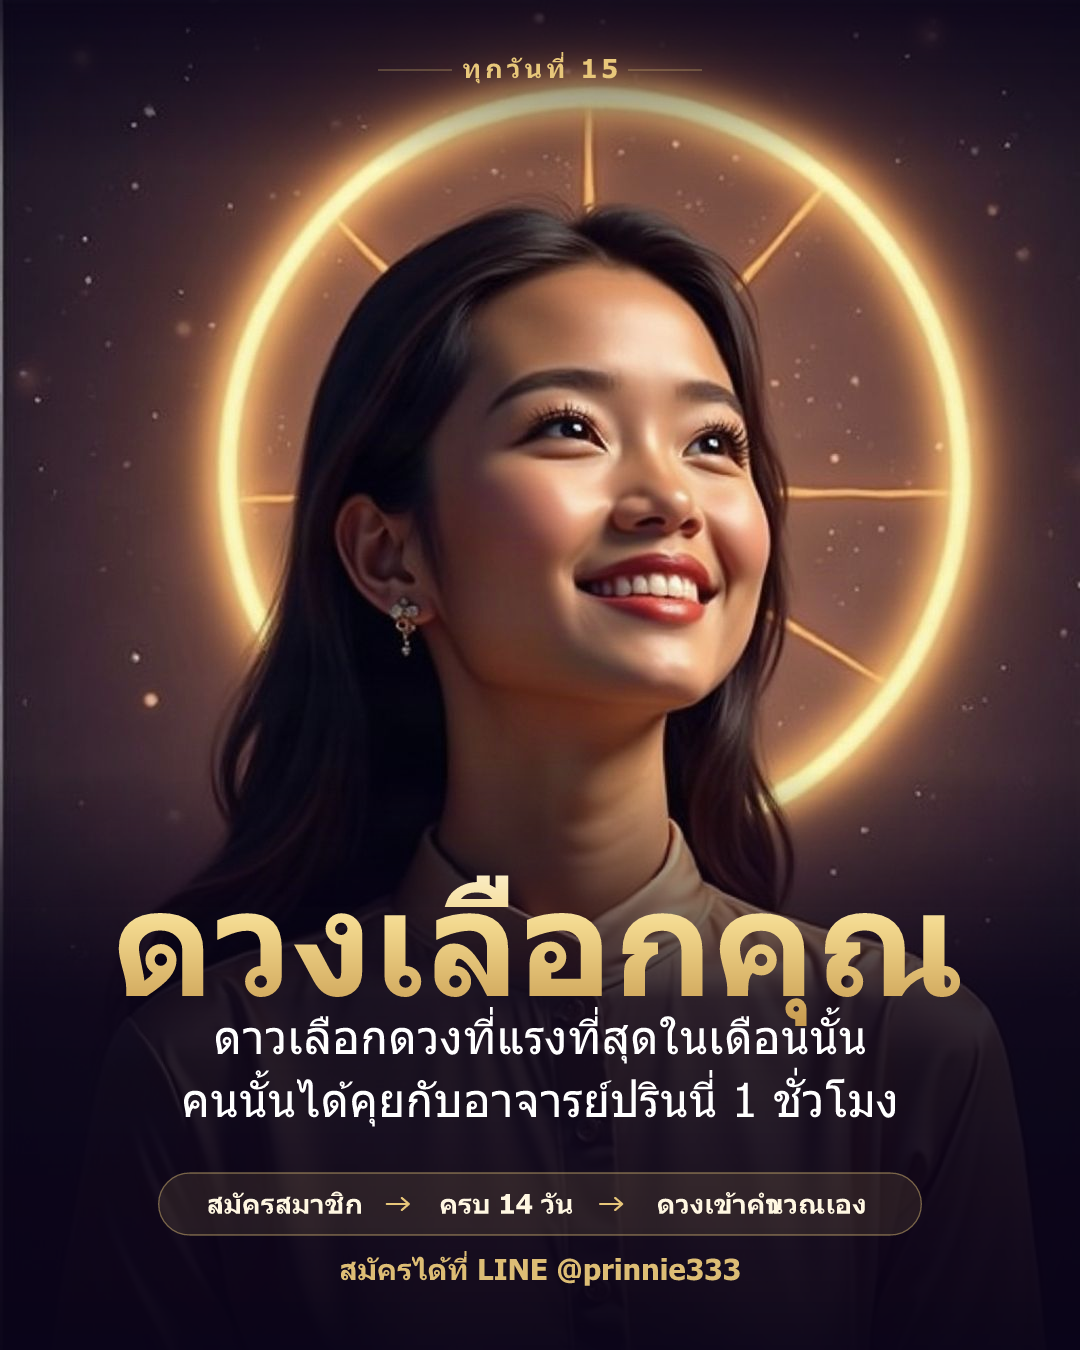
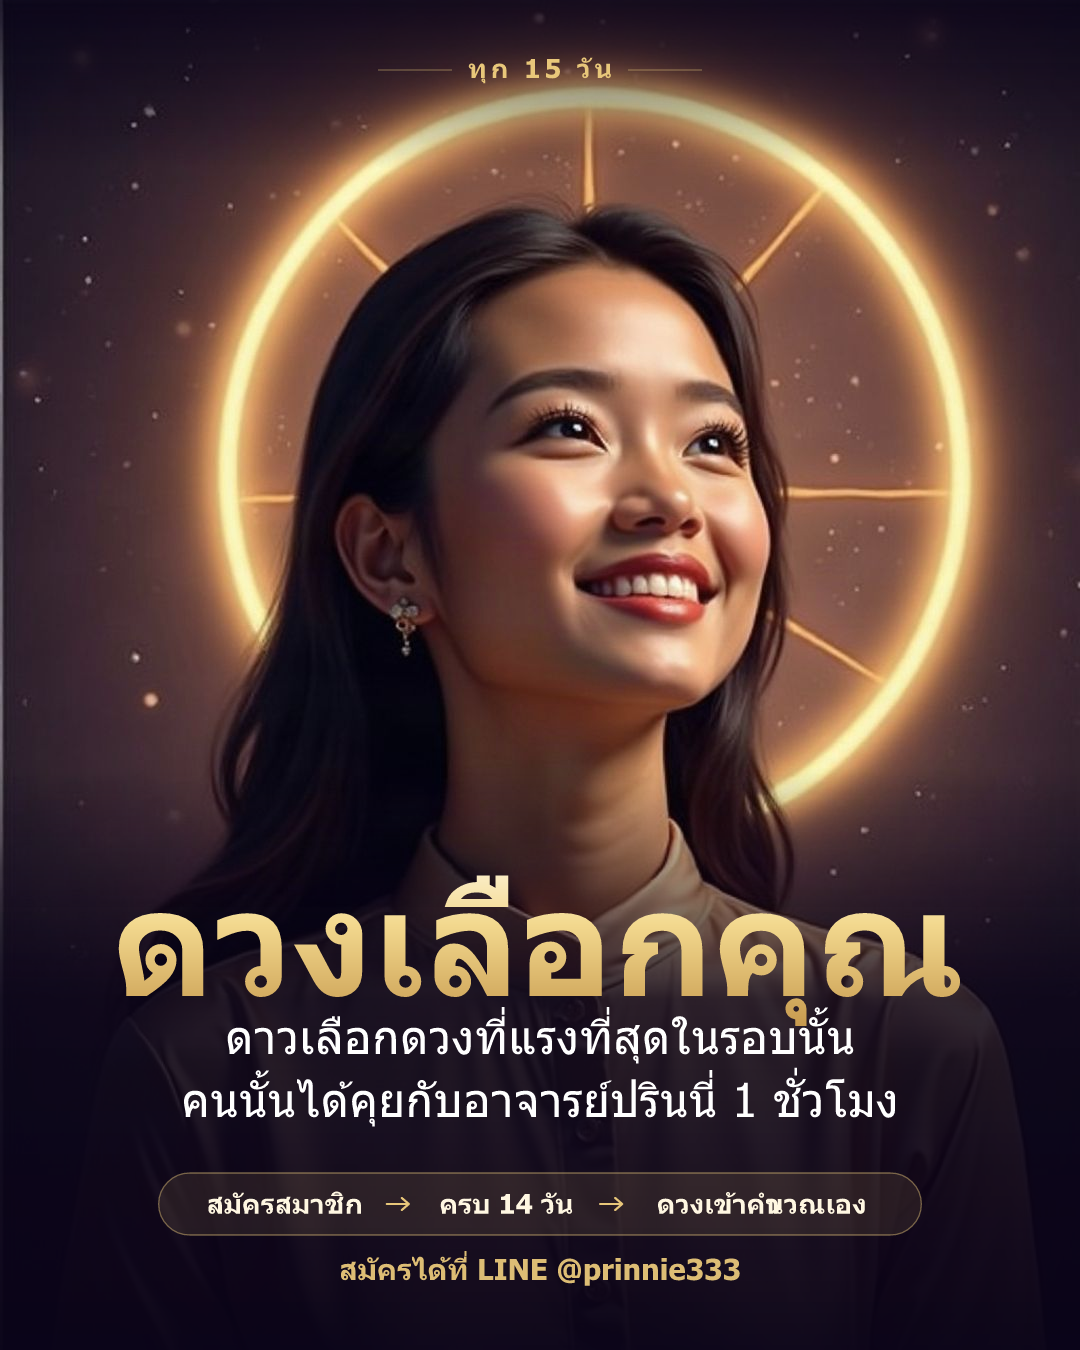
แคมเปญดวงเลือกคุณ: เปลี่ยนเป็นรอบ 15 วัน (วันที่ 2 และ 17) + ข้อความสั้นลงครึ่งหนึ่ง
เดิมคัดเดือนละครั้งวันที่ 15 · เปลี่ยนเป็นทุก 15 วัน = เดือนละ 2 คน
เรื่องนี้แตะ 7 ไฟล์ ถ้าแก้แต่ข้อความบรอดแคสต์จะกลายเป็นสัญญาที่ระบบไม่ทำตาม

- scheduler/loyaltyRewards.js  cron '0 9 15 * *' → '0 9 2,17 * *'  ← ตัวคัดจริง
- services/winback.js          ข้อความตามลูกค้ากลับ
- services/paymentApprove.js   คอมเมนต์กติกา
- build-loyalty-art.js         "ทุกวันที่ 15" → "ทุก 15 วัน" · "ในเดือนนั้น" → "ในรอบนั้น"
- build-loyalty-short.js       การ์ดในวิดีโอ → "ทุกวันที่ 2 และ 17"
- build-campaign-art.js        ข้อความในโปสเตอร์
- broadcast-loyalty.js         ข้อความใหม่ + แก้บั๊กด้านล่าง

ข้อความ: 553 → 302 ตัวอักษร (OA1) · 609 → 334 (OA2)
เน้นสามอย่างตั้งแต่บรรทัดแรก — ฟรี · เฉพาะสมาชิก · รอบละ 1 คน

บั๊กที่เจอตอนเทส: --to-me ขึ้นว่า "ส่งแล้ว" ทั้งที่ TEST_MODE บล็อกไว้
pushMessage คืน {skipped:true} ตอนถูกบล็อก ไม่ได้ throw แต่สคริปต์ไม่เคยเช็คค่าที่คืนมา
ถ้าไม่เจอก่อน วันบรอดแคสต์จริงจะเห็นเครื่องหมายถูกแล้วนึกว่าสำเร็จ
แก้แล้ว: เช็ค r.skipped + เลือกปลายทางที่อยู่ใน allowlist ให้อัตโนมัติ

รูปแคมเปญสร้างใหม่ทั้งชุดให้ตรงกับรอบใหม่

Changed region(s): [[0.1833, 0.7467, 0.7944, 0.7778], [0.4278, 0.0311, 0.5806, 0.0622]]

diff --git a/scripts/build-loyalty-short.js b/scripts/build-loyalty-short.js
@@ -5,7 +5,7 @@
 //
 // โครง 5 การ์ด — เขียนให้คนดูรู้เรื่องภายใน 3 วินาทีแรก เพราะ Short ตัดสินกันตรงนั้น
 //   1. ตะขอ      "ดวงของทุกคนไม่เหมือนกัน"       ← ต้องอ่านจบก่อนคนปัด
-//   2. กติกา     ทุกวันที่ 15 ดาวเลือกดวงที่แรงสุด
+//   2. กติกา     ทุก 15 วัน ดาวเลือกดวงที่แรงสุด
 //   3. รางวัล    ได้คุยกับอาจารย์ตัวต่อตัว 1 ชม.   ← ภาพคนจริง จุดที่หยุดสายตา
 //   4. ทางเข้า   สมัคร → ครบ 14 วัน → เข้าคำนวณเอง
 //   5. ปิด       แอด LINE @prinnie333
@@ -31,7 +31,7 @@ const esc = s => String(s).replace(/&/g, '&amp;').replace(/</g, '&lt;').replace(
 // hero:true = มีภาพคนเป็นพื้น (การ์ดรางวัล) ที่เหลือพื้นม่วงล้วนให้ตัวอักษรเด่น
 const CARDS = [
   { kicker: '', head: 'ดวงของทุกคน\nไม่เหมือนกัน', sub: 'เดือนนี้ดาวจึงเลือกไม่เหมือนกัน', dur: 3.4 },
-  { kicker: 'ทุกวันที่ 15', head: 'ดาวเลือก\nดวงที่แรงที่สุด', sub: 'คำนวณจากวัน เวลา และสถานที่เกิดจริง', dur: 3.6 },
+  { kicker: 'ทุกวันที่ 2 และ 17', head: 'ดาวเลือก\nดวงที่แรงที่สุด', sub: 'คำนวณจากวัน เวลา และสถานที่เกิดจริง', dur: 3.6 },
   { kicker: 'สิทธิ์ที่ได้', head: 'คุยกับอาจารย์\nปรินนี่ 1 ชั่วโมง', sub: 'ตัวต่อตัว ไม่มีค่าใช้จ่ายเพิ่ม', dur: 4.0, hero: true },
   { kicker: 'ไม่ใช่การจับรางวัล', head: 'เป็นสมาชิก\nครบ 14 วัน', sub: 'ดวงคุณเข้าการคำนวณเอง ไม่ต้องสมัครอะไรอีก', dur: 3.6 },
   { kicker: 'เดือนนี้อาจเป็นคุณ', head: 'ดวงเลือกคุณ', sub: 'แอด LINE @prinnie333', dur: 3.4, gold: true },

diff --git a/src/scheduler/loyaltyRewards.js b/src/scheduler/loyaltyRewards.js
@@ -1,4 +1,4 @@
-// "ดวงเลือกคุณ" — รันทุกวันที่ 15 เวลา 09:00 Bangkok
+// "ดวงเลือกคุณ" — รันทุก 15 วัน (วันที่ 2 และ 17) เวลา 09:00 Bangkok
 // หาสมาชิกที่ดาวจรเดือนนี้ทำมุมกับดวงกำเนิดแรงที่สุด → ให้สิทธิ์ดูดวงกับอาจารย์ 1 ชม.
 //
 // ⚖ ไม่มีการสุ่ม — คำนวณจากตำแหน่งดาวจริง รันซ้ำวันเดิมได้ผลเดิมเสมอ (ดู monthlyPick.js)
@@ -52,11 +52,12 @@ async function runMonthlyPick({ at = new Date(), dryRun = false } = {}) {
 }
 
 function start() {
-  // วันที่ 15 ของทุกเดือน 09:00 Bangkok
-  cron.schedule('0 9 15 * *', () => runMonthlyPick(), { timezone: 'Asia/Bangkok' });
+  // วันที่ 2 และ 17 ของทุกเดือน 09:00 Bangkok — รอบละ 15 วัน
+  // ต้องตรงกับที่บอกไว้ในข้อความบรอดแคสต์ ไม่งั้นสัญญากับลูกค้าไม่เป็นจริง
+  cron.schedule('0 9 2,17 * *', () => runMonthlyPick(), { timezone: 'Asia/Bangkok' });
   const state = process.env.LOYALTY_ENABLED === 'true'
     ? '(ENABLED)' : '(ปิดอยู่ — ตั้ง LOYALTY_ENABLED=true)';
-  console.log(`[ดวงเลือกคุณ] คัดผู้ได้รับทุกวันที่ 15 · 09:00 Bangkok · สมาชิกครบ ${pick.MIN_MEMBER_DAYS} วัน ${state}`);
+  console.log(`[ดวงเลือกคุณ] คัดผู้ได้รับทุก 15 วัน (วันที่ 2 และ 17) · 09:00 Bangkok · สมาชิกครบ ${pick.MIN_MEMBER_DAYS} วัน ${state}`);
 }
 
 module.exports = { start, runMonthlyPick };

diff --git a/scripts/build-loyalty-art.js b/scripts/build-loyalty-art.js
@@ -91,12 +91,12 @@ function overlay(W, H, showPrice) {
   <g>
     <line x1="${cx - 162 * S}" y1="${70 * S}" x2="${cx - 88 * S}" y2="${70 * S}" stroke="#E8C77A" stroke-opacity=".5" stroke-width="1.2"/>
     <line x1="${cx + 88 * S}" y1="${70 * S}" x2="${cx + 162 * S}" y2="${70 * S}" stroke="#E8C77A" stroke-opacity=".5" stroke-width="1.2"/>
-    <text x="${cx}" y="${78 * S}" text-anchor="middle" font-size="${stamp}" font-weight="700" fill="#E8C77A" letter-spacing="4">ทุกวันที่ 15</text>
+    <text x="${cx}" y="${78 * S}" text-anchor="middle" font-size="${stamp}" font-weight="700" fill="#E8C77A" letter-spacing="4">ทุก 15 วัน</text>
   </g>
 
   <text x="${cx}" y="${headY}" text-anchor="middle" font-size="${head}" font-weight="700" fill="url(#gold)">ดวงเลือกคุณ</text>
 
-  <text x="${cx}" y="${proY}" text-anchor="middle" font-size="${promise}" font-weight="500" fill="#FFFFFF">ดาวเลือกดวงที่แรงที่สุดในเดือนนั้น</text>
+  <text x="${cx}" y="${proY}" text-anchor="middle" font-size="${promise}" font-weight="500" fill="#FFFFFF">ดาวเลือกดวงที่แรงที่สุดในรอบนั้น</text>
   <text x="${cx}" y="${proY2}" text-anchor="middle" font-size="${promise}" font-weight="500" fill="#FFFFFF">คนนั้นได้คุยกับอาจารย์ปรินนี่ 1 ชั่วโมง</text>
 
   <!-- ทางเข้าร่วม — เป็นลำดับจริง ต้องทำตามกัน ลูกศรจึงบอกความหมาย -->

diff --git a/src/services/paymentApprove.js b/src/services/paymentApprove.js
@@ -21,7 +21,7 @@ async function approve(order, chargeRef) {
   // ค่าคอมอินฟลู: เฉพาะ subscription + จ่ายจริงครั้งแรก (renew ไม่ได้เพิ่ม) — ไม่ให้พังการเปิดสมาชิก
   await commission.recordFirstPaid(order.line_user_id, order.ref).catch(e => console.error('[approve] commission:', e.message));
   // หมายเหตุ: สิทธิ์ดูดวงกับอาจารย์ไม่ผูกกับการจ่ายเงินอีกแล้ว
-  // เปลี่ยนเป็น "ดวงเลือกคุณ" — คัดจากดาวจรทุกวันที่ 15 (ดู scheduler/loyaltyRewards.js)
+  // เปลี่ยนเป็น "ดวงเลือกคุณ" — คัดจากดาวจรทุกวันที่ 2 และ 17 (ดู scheduler/loyaltyRewards.js)
   const expTH = new Date(r.expire_date).toLocaleDateString('th-TH', { year: 'numeric', month: 'long', day: 'numeric' });
   await lineMessaging.pushText(order.line_user_id,
     `ชำระเงินสำเร็จ! ✨\n\nสมาชิก Prinnie333 ของคุณใช้ได้ถึง ${expTH}\nรับดวงประจำวันทุกเช้า 08:00 น. 🌟`).catch(() => {});

diff --git a/src/services/winback.js b/src/services/winback.js
@@ -41,7 +41,7 @@ function buildMessage(rawName, ended) {
     `ช่วงนี้ดาวขยับหลายดวง จังหวะของหลายคนเปลี่ยนไปพอสมควรเลยค่ะ`,
     ``,
     `และเรากำลังจะเริ่มสิ่งใหม่สำหรับสมาชิก —`,
-    `ทุกวันที่ 15 ระบบจะคำนวณว่าดาวเดือนนั้น`,
+    `ทุกวันที่ 2 และ 17 ระบบจะคำนวณว่าดาวรอบนั้น`,
     `ทำมุมกับดวงเกิดของสมาชิกคนไหนแรงที่สุด`,
     `คนนั้นจะได้คุยกับอาจารย์ปรินนี่เป็นการส่วนตัว 1 ชั่วโมง`,
     `โดยไม่มีค่าใช้จ่ายเพิ่ม`,

diff --git a/scripts/build-campaign-art.js b/scripts/build-campaign-art.js
@@ -123,7 +123,7 @@ function buildSvg(W, H) {
         fill="url(#gold)">ดวงเลือกคุณ</text>
 
   <text x="${textX}" y="${subY}" text-anchor="${anchor}" font-size="${subSize}" font-weight="400" fill="#F6F1FF">
-    ทุกวันที่ 15 ดาวทำมุมกับดวงเกิดของใครแรงที่สุด
+    ทุก 15 วัน ดาวทำมุมกับดวงเกิดของใครแรงที่สุด
   </text>
   <text x="${textX}" y="${subY + subSize * 1.35}" text-anchor="${anchor}" font-size="${subSize}" font-weight="400" fill="#F6F1FF">
     คนนั้นได้คุยกับอาจารย์ปรินนี่ 1 ชั่วโมง
